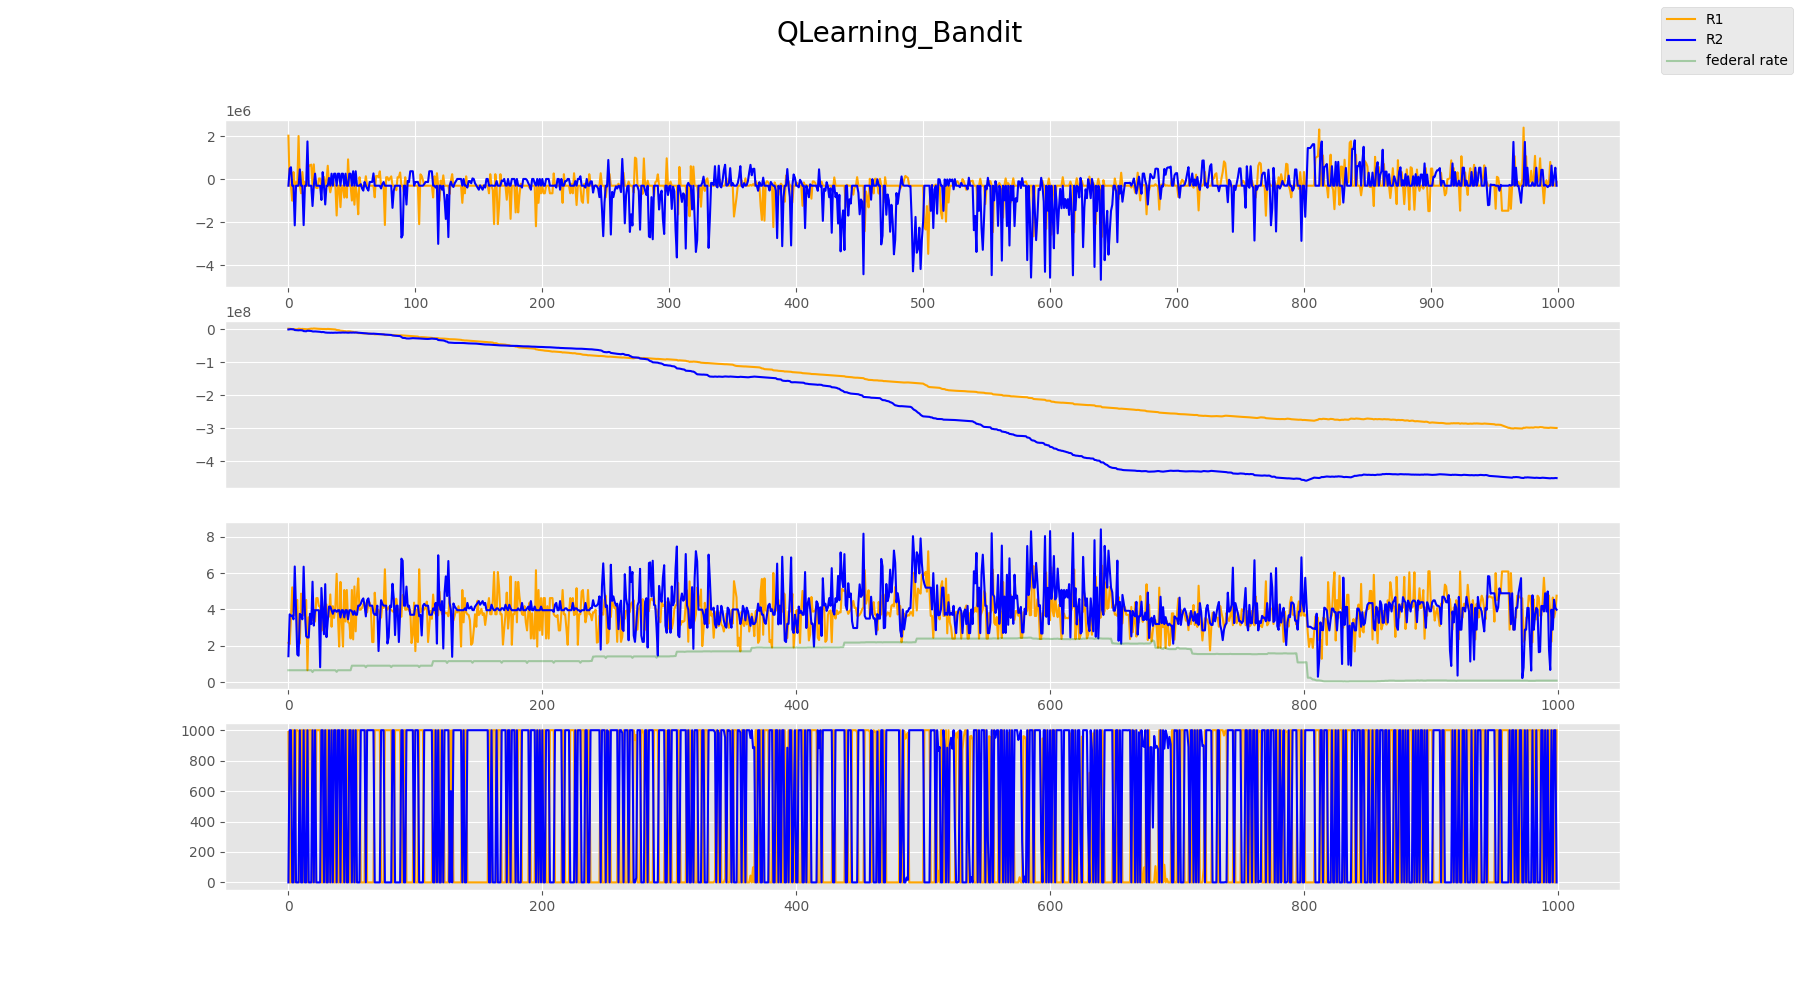
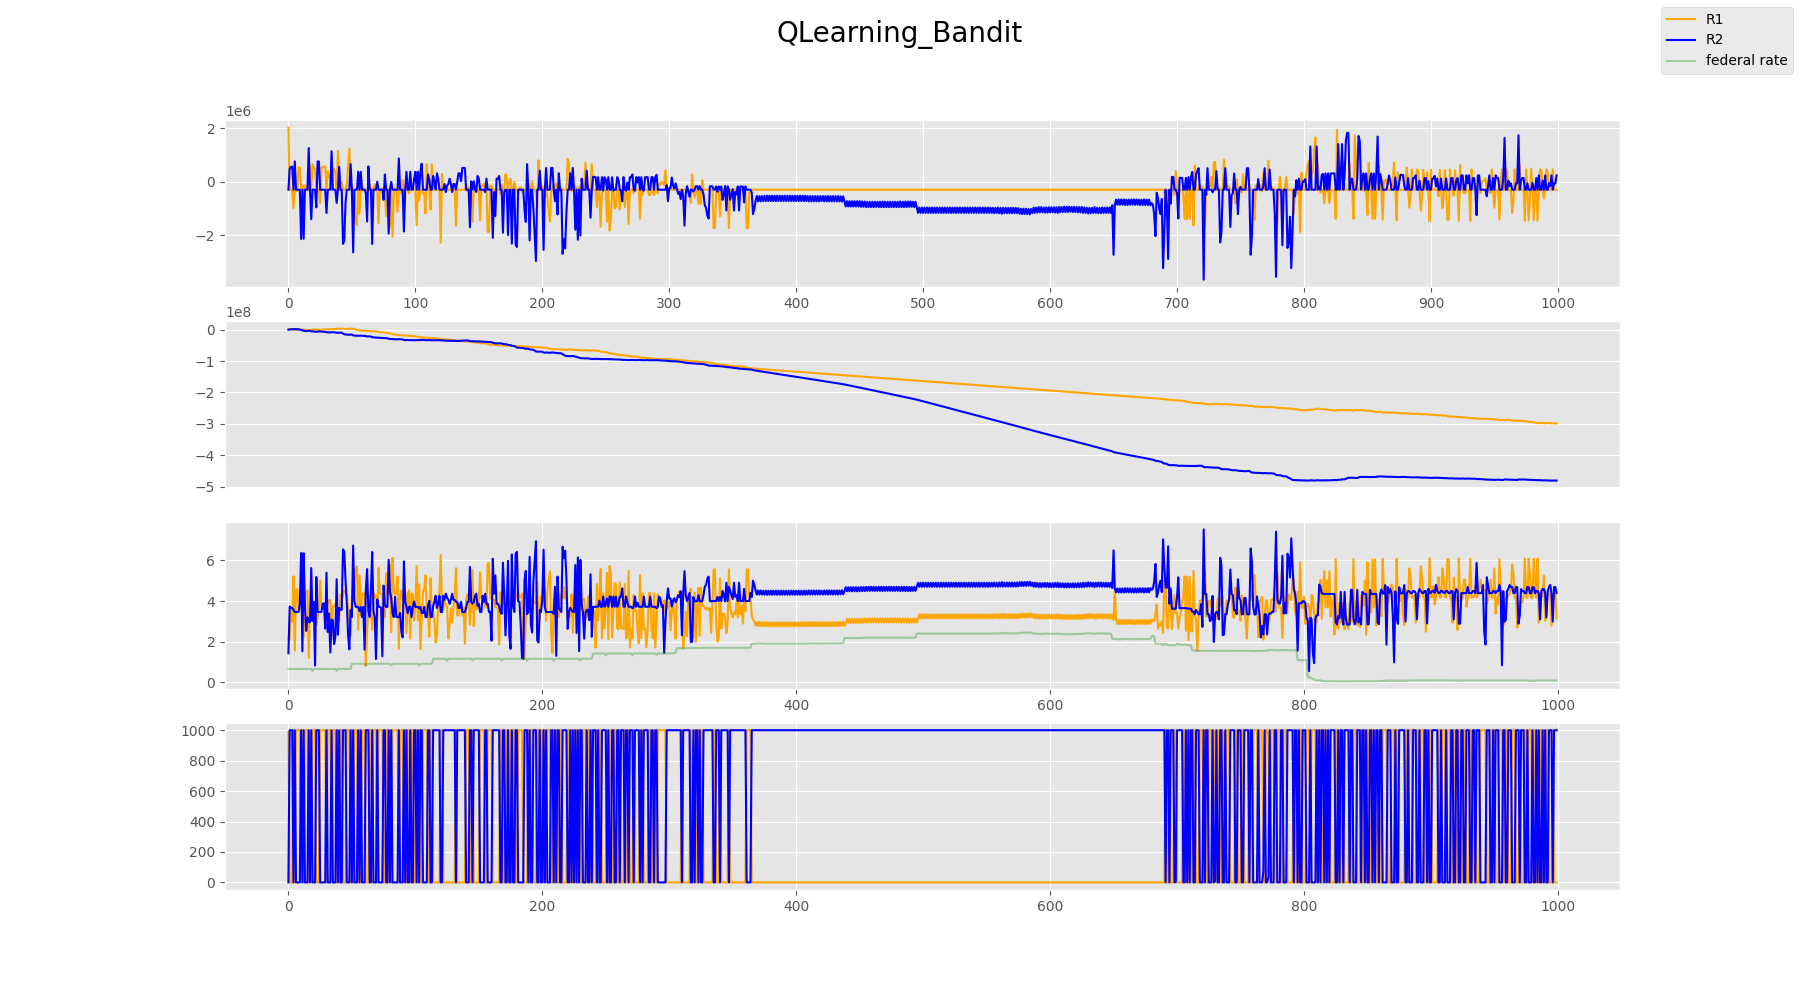
QLearning with softmax v2

diff --git a/p3/colosseum.py b/p3/colosseum.py
@@ -308,10 +308,6 @@ class QLearningProblem:
         self.actScalar = Split(-2, 2, 10)
         self.Q = collections.defaultdict(
             lambda: {i: 0 for i in range(len(self.actScalar))})
-        self.Nt = collections.defaultdict(
-            lambda: collections.defaultdict(lambda: 0))
-        self.ctr = 0
-        self.exploration = 1
         self.rng = getrng()
 
     def State(self, d):
@@ -323,11 +319,9 @@ class QLearningProblem:
         reward = d.mrev - d.orev
         s = self.State(d)
         action = self.actScalar.predict(d.mrate - d.orate)
-        self.Nt[s][action] += 1
         maxQ = self.gamma * self.DictMax(self.Q[s])[1] if self.Q[s] else 0
         self.Q[s][action] = (1 - self.learning_rate) * self.Q[s][action] + \
             self.learning_rate * (reward + maxQ)
-        self.ctr += 1
         return self
 
     def DictMax(self, d):
@@ -346,15 +340,10 @@ class QLearningProblem:
         s = self.State(d)
 
         m = self.DictMax(self.Q[s])
-        if m[1] > 10000:
+        if m[1] > 20000:
             return self.actScalar.map(m[0]) + d.orate
-        if self.rng.random() < .1:
-            self.exploration = 0
-            scalar = MinMaxScaler().fit(
-                A([self.DictMax(self.Q[s])[1], self.DictMin(self.Q[s])[1]]))
-            lsm = self.DictMax(
-                {x: scalar.transform(A(self.Q[s][x]))[0, 0] + self.exploration * self.Uncertainty(self.ctr, self.Nt[s][x]) for x in self.Q[s]})
-            return self.actScalar.map(lsm[0]) + d.orate
+        if self.rng.random() < .75:
+            return self.actScalar.map(self.rng.integers(len(self.actScalar))) + d.orate
         else:
             arr = [self.Q[s][x] for x in self.Q[s]]
             scalar = MinMaxScaler().fit(
@@ -364,9 +353,6 @@ class QLearningProblem:
             sigma = sum(prob)
             prob = list(map(lambda x: x/sigma, prob))
             choice = self.rng.choice([x for x in self.Q[s]], p=prob)
-            # print(prob[choice])
-            # if prob[choice] < 0.1:
-            #     print(prob)
             return self.actScalar.map(choice) + d.orate
 
 
@@ -574,6 +560,6 @@ def GShow():
 if __name__ == '__main__':
     battleList = [Chiang1, Chiang2, Middle, Min, Max,
                   Random, ES, ME, Chen5, Chen6, Bandit, QLearning, OponentBase, OponentBaseDynamic]
-    battleList = [QLearning, Bandit]
+    battleList = [QLearning, QLearning]
     NNContest(battleList)
     # GShow()
